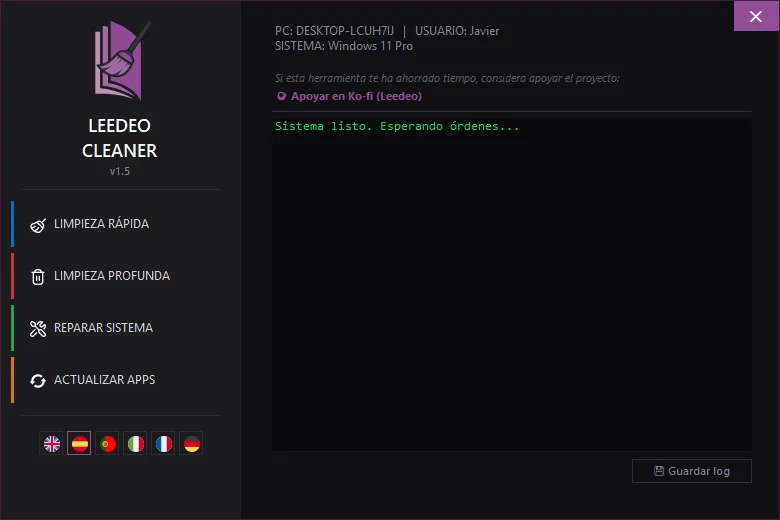
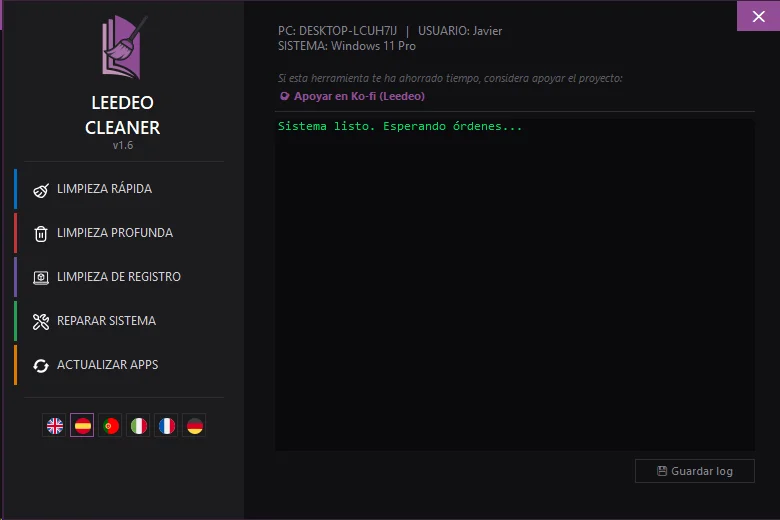
Update

diff --git a/projects/leedeo-cleaner.html b/projects/leedeo-cleaner.html
@@ -41,7 +41,7 @@ permalink: /projects/leedeo-cleaner/
         <span class="lc-mockup-dot lc-mockup-dot--red"></span>
         <span class="lc-mockup-dot lc-mockup-dot--yellow"></span>
         <span class="lc-mockup-dot lc-mockup-dot--green"></span>
-        <span class="lc-mockup-label">leedeo cleaner v1.5</span>
+        <span class="lc-mockup-label">leedeo cleaner v1.6</span>
       </div>
       <img src="{{ '/assets/img/leedeo-cleaner-interface.webp' | relative_url }}" alt="Interfaz de Leedeo Cleaner" class="lc-mockup-image" loading="lazy">
       <div class="lc-mockup-fade"></div>
